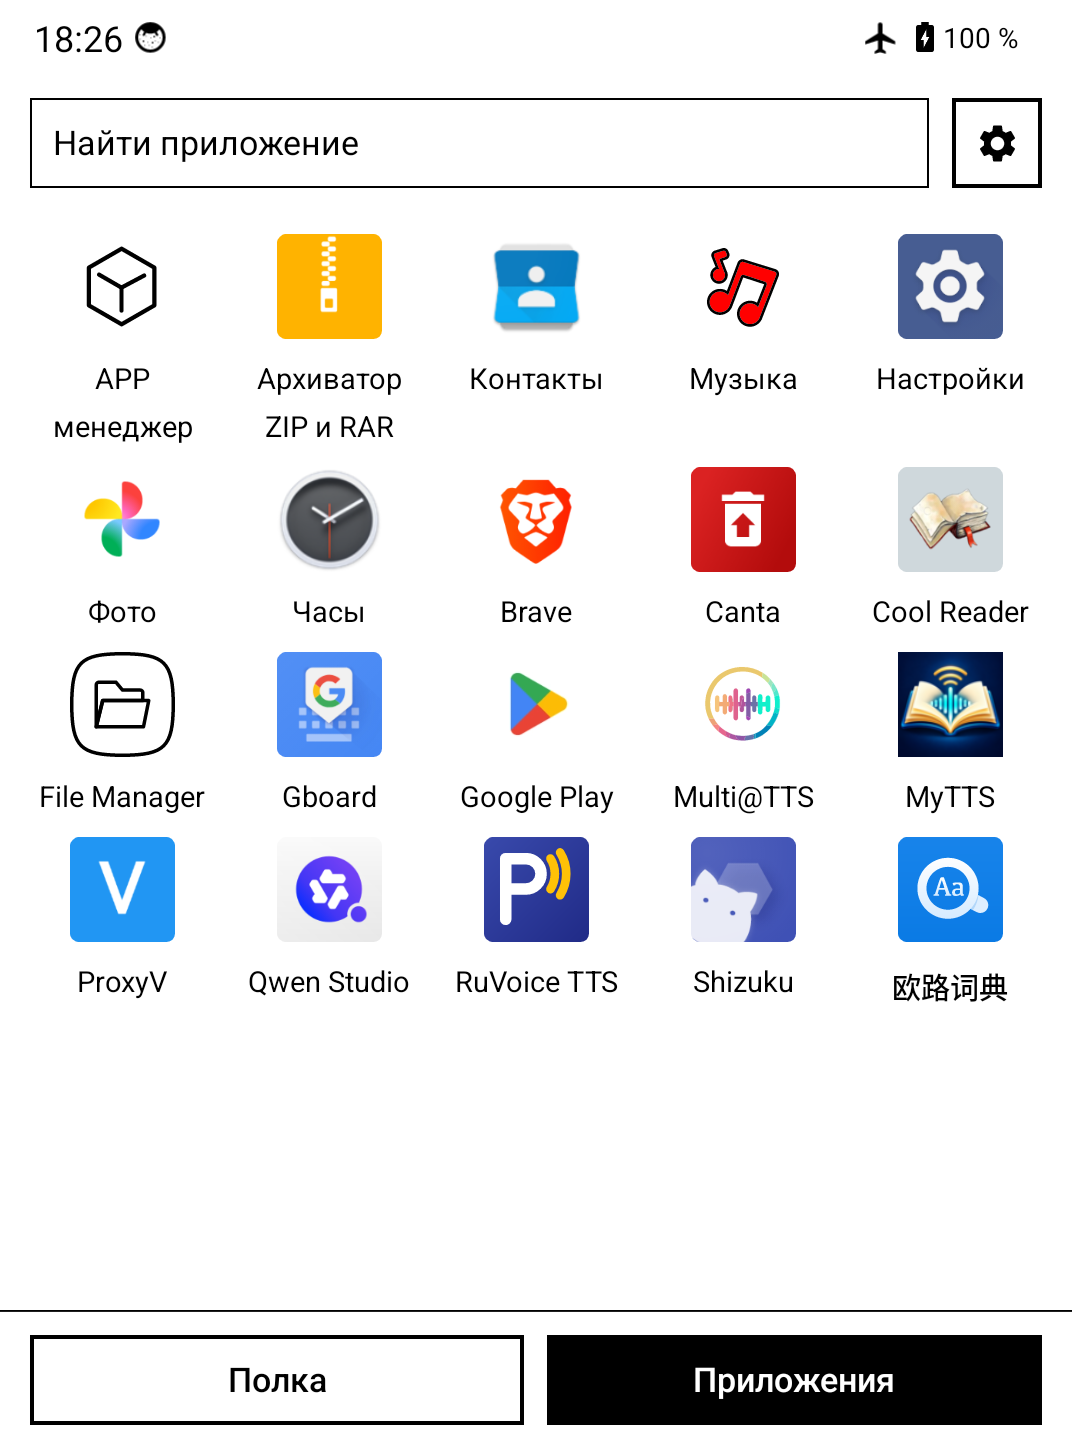
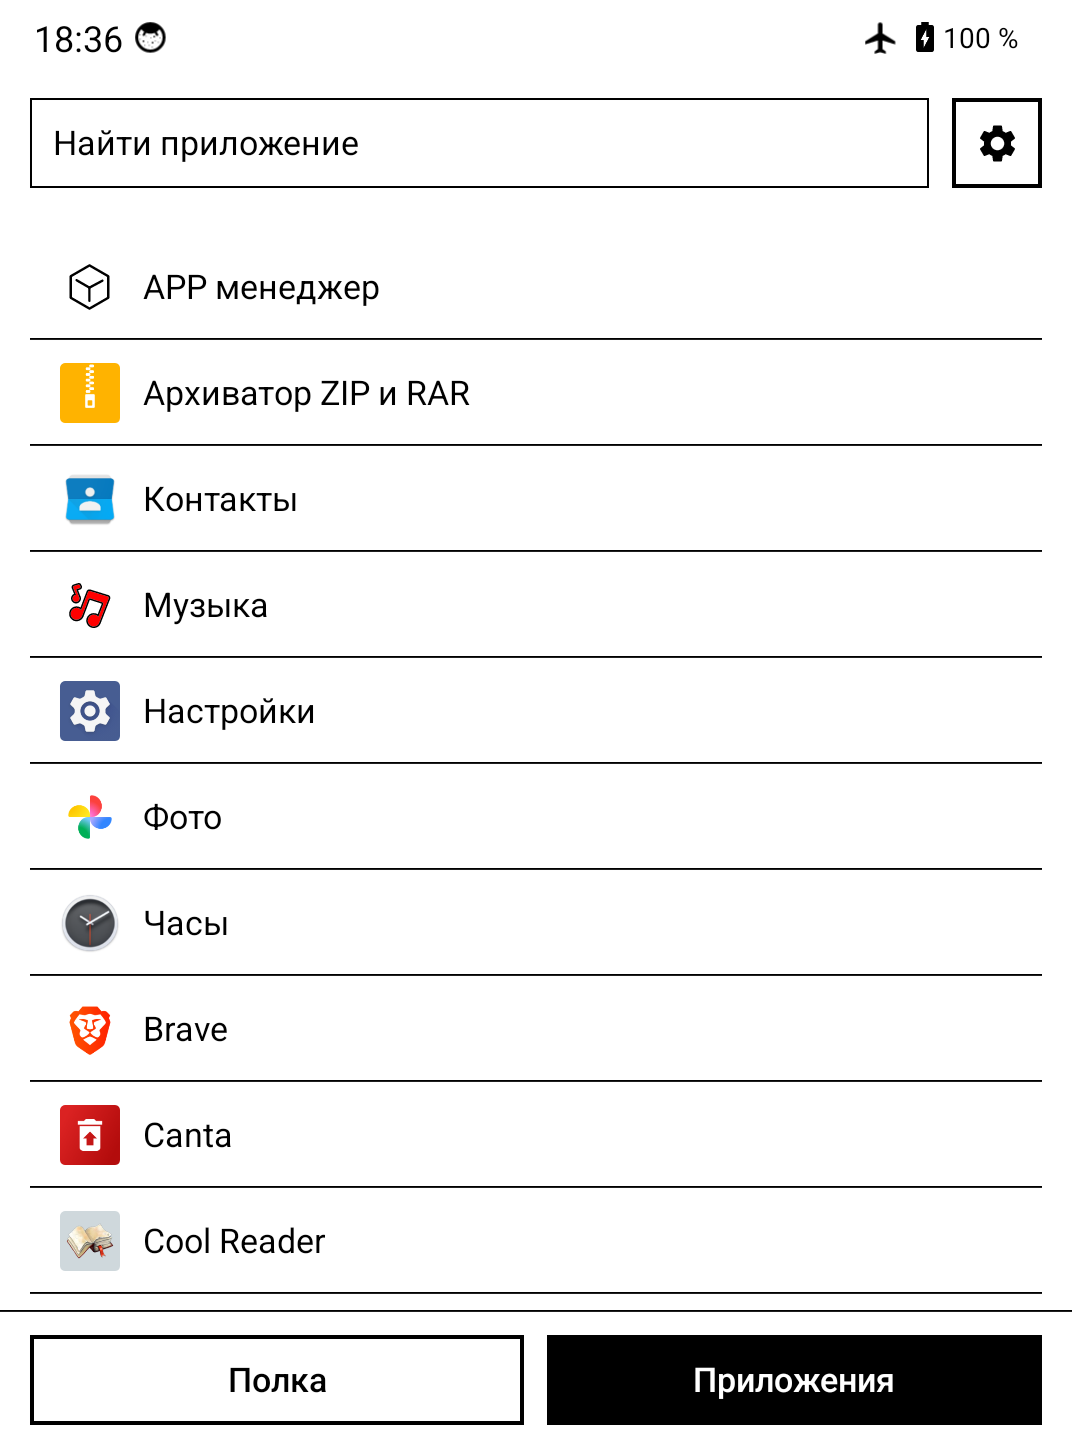
README: режим лаунчера и скриншоты 2.0.0, английская версия
- в README.md добавлен раздел «Режим лаунчера»: панель «Полка | Приложения»,
  сетка и список, меню долгого нажатия, возврат скрытых приложений, кнопка
  «Сделать лаунчером по умолчанию», выбор экрана по Home, аппаратные кнопки,
  как выключить режим
- новые скриншоты с устройства: launcher-apps-grid, launcher-apps-list,
  launcher-menu, launcher-settings
- создан README.en.md — полный английский перевод, обе версии ссылаются друг
  на друга

diff --git a/README.en.md b/README.en.md
@@ -1,0 +1,179 @@
+# BookShelf
+
+**A home library for e-ink screens.** BookShelf finds books in the folders you point it at, works
+out titles, authors, series and covers itself, and shows everything on a bookshelf. It does not
+read the book — your reader app does: BookShelf hands the book over in one tap and pulls the
+reading progress back onto the shelf.
+
+> Русская версия: [README.md](README.md)
+
+![Shelf](assets/screenshots/shelf.png)
+
+## Features
+
+### Library
+
+* **Books stay where they are.** The app never copies or "imports" files: you pick folders
+  (internal storage, SD card, USB drive) and the shelf shows their contents. Your order on disk is
+  your order in the library.
+* **Metadata and covers are parsed automatically:** FB2 and FB2.ZIP, EPUB 2/3, PDF, TXT, CBZ and
+  CBR (comics), DOCX, ODT, RTF, MOBI/AZW3/PRC. Encodings (cp1251 included), archives, series and
+  series numbers are read from the file itself — nothing to fill in.
+* **A USB drive is a shelf.** Insert the media and a row with its books appears; pull it out and the
+  books leave with it, nothing dangles in the library.
+* **Duplicates** are found by file content, not by name: identical books are shown as a list.
+* **Lossless FB2 compression.** Markup and images are compressed while text, tags and the images
+  themselves stay the same — the result is verified by parsing it again instead of being trusted.
+  The gain depends on the book: on dense illustrated books it is measured in percent.
+
+### Order and search
+
+* Filters by author, series, genre, format and reading status; library overview by authors,
+  series and genres.
+* Search by title, author, series, file name and annotation, with suggestions while you type.
+* Sorting (title, author, series, date added, date opened, size, progress) and shelf grouping.
+* Shelves: manual collections and smart ones — "everything matching a rule", for example
+  "unread, genre: science fiction".
+
+### Reading
+
+* A book opens in your reader app, and a reader can be chosen as the default per format.
+* Only apps that really read books are listed: dictionaries and browsers that can open a file are
+  filtered out.
+* Reading progress from FBReader comes back to the shelf — you see "reading 8%", not "unread".
+
+### Launcher mode
+
+Optionally BookShelf becomes the device home screen: books and other apps in one place, without a
+heavy vendor shell.
+
+| Apps (grid) | Apps (list) |
+|---|---|
+| ![Apps, grid](assets/screenshots/launcher-apps-grid.png) | ![Apps, list](assets/screenshots/launcher-apps-list.png) |
+
+* **Bottom bar "Shelf | Apps"** is the entry to the list of installed apps. The active tab is
+  inverted, tab state is preserved. The bar can be **hidden** (see the settings below) when the
+  device has vendor buttons.
+* **The list works like a regular launcher:** grid or list "icon and name", search by name, sorting
+  by name or by launch frequency, favourites. System apps are hidden by default; the checkbox shows
+  only the useful ones (settings, files, camera, clock, contacts, store, keyboard, music) — vendor
+  service entries are never shown.
+* **Long press** opens a menu next to the icon: open, app info, uninstall, hide from list, add to
+  favourites. Hidden apps are restored in **Settings → Launcher → Hidden apps**.
+* **Home screen with one button.** "Settings → Launcher → Set as default launcher" opens the system
+  home-app picker — no need to dig through the system settings.
+* **What opens on Home** is your choice: the apps list (default) or the shelf.
+* **Launching the app** (icon or hardware button) opens the shelf, like a normal app; Home opens the
+  selected screen.
+* **Hardware buttons.** "Settings → Launcher → 'Apps' item for device buttons" adds a separate entry
+  to the device app list so it can be assigned to a button. If the system shows one entry per
+  package (Bigme does), the separate entry will not appear — the button opens the shelf and the apps
+  list stays a tab.
+* **Mode settings:** turn the whole mode on or off, hide the bottom bar, list style, sorting, reset
+  launch statistics, "collapse instead of exiting" (BACK at the root collapses the home screen
+  instead of closing it).
+
+| Launcher settings | Long-press menu |
+|---|---|
+| ![Launcher settings](assets/screenshots/launcher-settings.png) | ![Menu](assets/screenshots/launcher-menu.png) |
+
+To turn the mode off completely: **Settings → Launcher → Launcher mode** — the app stays a plain
+shelf, the bottom bar and the home-screen role disappear, and the role is released.
+
+### OPDS catalogs
+
+* Connect OPDS catalogs, browse sections, search and download books straight into your folder.
+* Downloads are queued, each one shows its state, and a failure is explained in words.
+* A path template arranges downloads into folders (by series, for example) the way you like.
+
+### Book card
+
+![Book card](assets/screenshots/book-card.png)
+
+Cover, every piece of information found, annotation, file path and actions: read, add to
+favourites, mark as read, put on a shelf, show in folder, edit metadata, optimise the file or delete
+the book together with the file — deletion asks for confirmation and really removes the file.
+
+### Built for e-ink
+
+* No animations, shadows or translucent layers — only an instant frame change.
+* Page and hardware-key paging, large elements, contrast typography.
+* Frontlight and screen refresh modes go through vendor controllers where they exist. If the device
+  cannot be controlled, the app says so honestly instead of pretending.
+* Background work yields to an open reader app: parsing and syncing never get in the way of reading.
+
+## Screenshots
+
+| Shelves | OPDS catalogs | Settings |
+|---|---|---|
+| ![Shelves](assets/screenshots/collections.png) | ![OPDS](assets/screenshots/catalogs.png) | ![Settings](assets/screenshots/settings.png) |
+
+## Installation
+
+### Prebuilt APKs
+
+APKs are published in [Releases](https://github.com/mops1k/book-shelf/releases):
+
+| Build | What is inside |
+|---|---|
+| `BookShelf-<version>-full.apk` | Everything, including CBR comics |
+| `BookShelf-<version>-fdroid.apk` | No CBR: the RAR unpacker is distributed under the UnRar licence, which F-Droid does not accept |
+
+### From source
+
+JDK 17+ and the Android SDK (compileSdk 37) are required. The SDK path goes to `local.properties`
+or `ANDROID_HOME`.
+
+```bash
+# build
+./gradlew :app:assembleFullDebug        # full build: all files and CBR comics
+./gradlew :app:assembleFdroidDebug      # no CBR (non-free RAR unpacker)
+./gradlew :app:assemblePlayDebug        # SAF only, no "access to all files"
+
+# install on a connected device
+./gradlew :app:installFullDebug
+
+# checks
+./gradlew testDebugUnitTest             # unit tests of all modules
+./gradlew detekt                        # static analysis
+./gradlew :app:connectedFullDebugAndroidTest   # instrumented tests (emulator or device)
+./gradlew koverXmlReportDebug :app:koverXmlReportFullDebug   # coverage reports (Kover)
+node tools/check-coverage.mjs           # per-module coverage threshold (config/coverage.json)
+node tools/check-sources.mjs            # source sanity
+node tools/check-versions.mjs           # every version in the catalog exists
+node tools/check-reachability.mjs       # every route is reachable
+node --test tools/*.test.mjs            # tests of the repository tools themselves
+
+# release builds: signing key in `keystore.properties` at the root,
+# in CI the same values come from environment variables
+./gradlew :app:assembleFullRelease :app:assembleFdroidRelease
+```
+
+The whole gate in one line:
+
+```bash
+./gradlew testDebugUnitTest :app:testFullDebugUnitTest :app:testFdroidDebugUnitTest \
+  :app:testPlayDebugUnitTest :app:assembleFullDebug :app:assembleFdroidDebug \
+  :app:assemblePlayDebug :app:assembleFullDebugAndroidTest detekt \
+  koverXmlReportDebug :app:koverXmlReportFullDebug --continue
+node tools/check-coverage.mjs && node --test tools/*.test.mjs
+```
+
+## Requirements
+
+* Android 7.0 (API 24) or newer.
+* A reader app for books — BookShelf is a shelf, not a reader. Tested with FBReader.
+* An e-ink screen is not required: everything works on a regular screen, it just looks larger and
+  more contrasty than usual.
+
+## Privacy
+
+* No account, no subscription, no analytics, no crash reports.
+* The network is used only for OPDS catalogs and their covers — and only while you have a catalog
+  open.
+* The library, settings and cover cache stay on the device.
+
+## License
+
+[MIT](LICENSE). The `full` flavour uses the RAR unpacker `junrar` under the UnRar licence — that is
+why two builds exist: `full` with comics and `fdroid` without them.

diff --git a/README.md b/README.md
@@ -5,6 +5,8 @@
 полкой. Читает книгу не он, а ваша читалка: BookShelf доводит книгу до неё одним нажатием и
 подтягивает прогресс чтения обратно на полку.
 
+> English version: [README.en.md](README.en.md)
+
 ![Полка](assets/screenshots/shelf.png)
 
 ## Возможности
@@ -41,6 +43,44 @@
 * В списке читалок показываются только те приложения, которые действительно читают книги:
   словари и браузеры, умеющие открыть файл, туда не попадают.
 * Прогресс чтения из FBReader возвращается на полку — видно «читаю 8 %», а не «не прочитано».
+
+### Режим лаунчера
+
+По желанию BookShelf становится домашним экраном устройства: книги и чужие приложения в одном
+месте, без тяжёлой вендорской оболочки.
+
+| Приложения (сетка) | Приложения (список) |
+|---|---|
+| ![Приложения, сетка](assets/screenshots/launcher-apps-grid.png) | ![Приложения, список](assets/screenshots/launcher-apps-list.png) |
+
+* **Нижняя панель «Полка | Приложения»** — вход в список установленных приложений. Активная
+  вкладка инвертирована, состояние вкладок сохраняется. Панель можно **скрыть** (см. настройки
+  ниже), если на устройстве есть вендорские кнопки.
+* **Список как в обычном лаунчере:** сетка или список «иконка и название», поиск по названию,
+  сортировка по имени или по частоте запуска, избранное. Системные приложения по умолчанию
+  скрыты; галочка показывает только полезные (настройки, файлы, камера, часы, контакты, маркет,
+  клавиатура, музыка) — вендорские служебные записи не показываются.
+* **Долгое нажатие** открывает меню у иконки: открыть, о приложении, удалить, скрыть из списка,
+  в избранное. Скрытые приложения возвращаются в «Настройки → Лаунчер → Скрытые приложения».
+* **Домашний экран одной кнопкой.** «Настройки → Лаунчер → Сделать лаунчером по умолчанию»
+  открывает системный выбор домашнего приложения — искать эту настройку в недрах системы не нужно.
+* **Что открывается по Home** — на выбор: список приложений (по умолчанию) или полка.
+* **Запуск приложения** — иконкой или аппаратной кнопкой — открывает полку, как обычное
+  приложение; Home открывает выбранный экран.
+* **Аппаратные кнопки.** «Настройки → Лаунчер → Пункт «Приложения» для кнопок устройства» добавляет
+  отдельный пункт в список приложений устройства, чтобы назначить его на кнопку. Если системное
+  устройство показывает в списке одно приложение на пакет (так делает Bigme), отдельного пункта
+  там не будет — кнопка открывает полку, а список приложений остаётся вкладкой.
+* **Настройки режима:** включить и выключить режим целиком, скрыть нижнюю панель, вид списка,
+  сортировка, сброс статистики запусков, «сворачивать вместо выхода» (по BACK в корне домашний
+  экран сворачивается, а не закрывается).
+
+| Настройки лаунчера | Меню долгого нажатия |
+|---|---|
+| ![Настройки лаунчера](assets/screenshots/launcher-settings.png) | ![Меню](assets/screenshots/launcher-menu.png) |
+
+Выключить режим совсем: **Настройки → Лаунчер → Режим лаунчера** — приложение останется обычной
+полкой, нижняя панель и роль домашнего экрана исчезнут, роль будет освобождена.
 
 ### Каталоги OPDS
 
